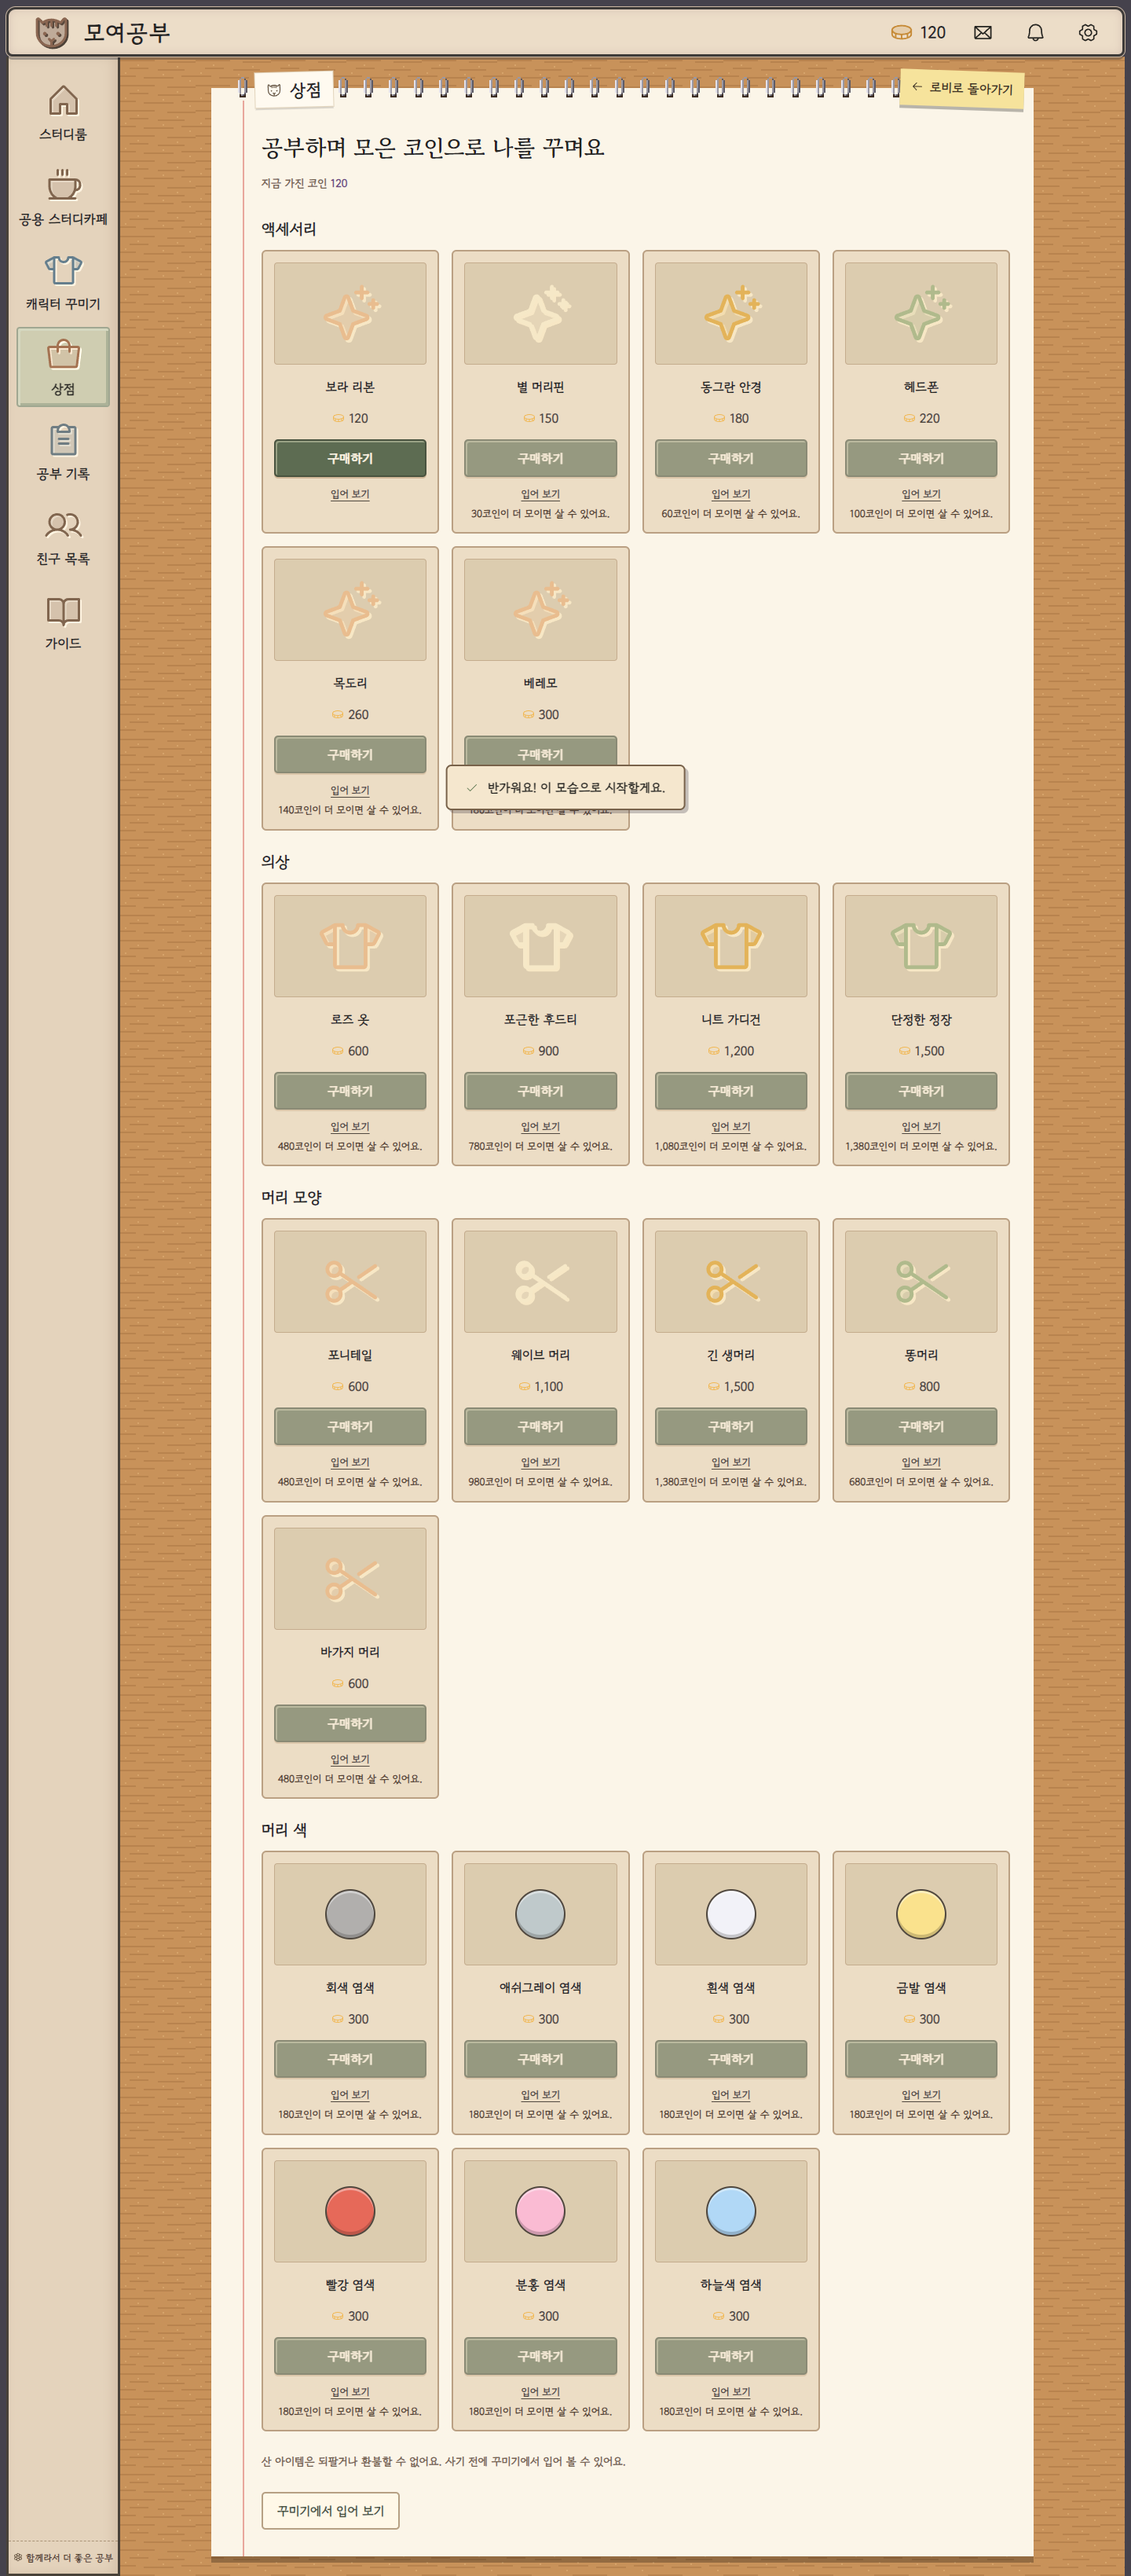
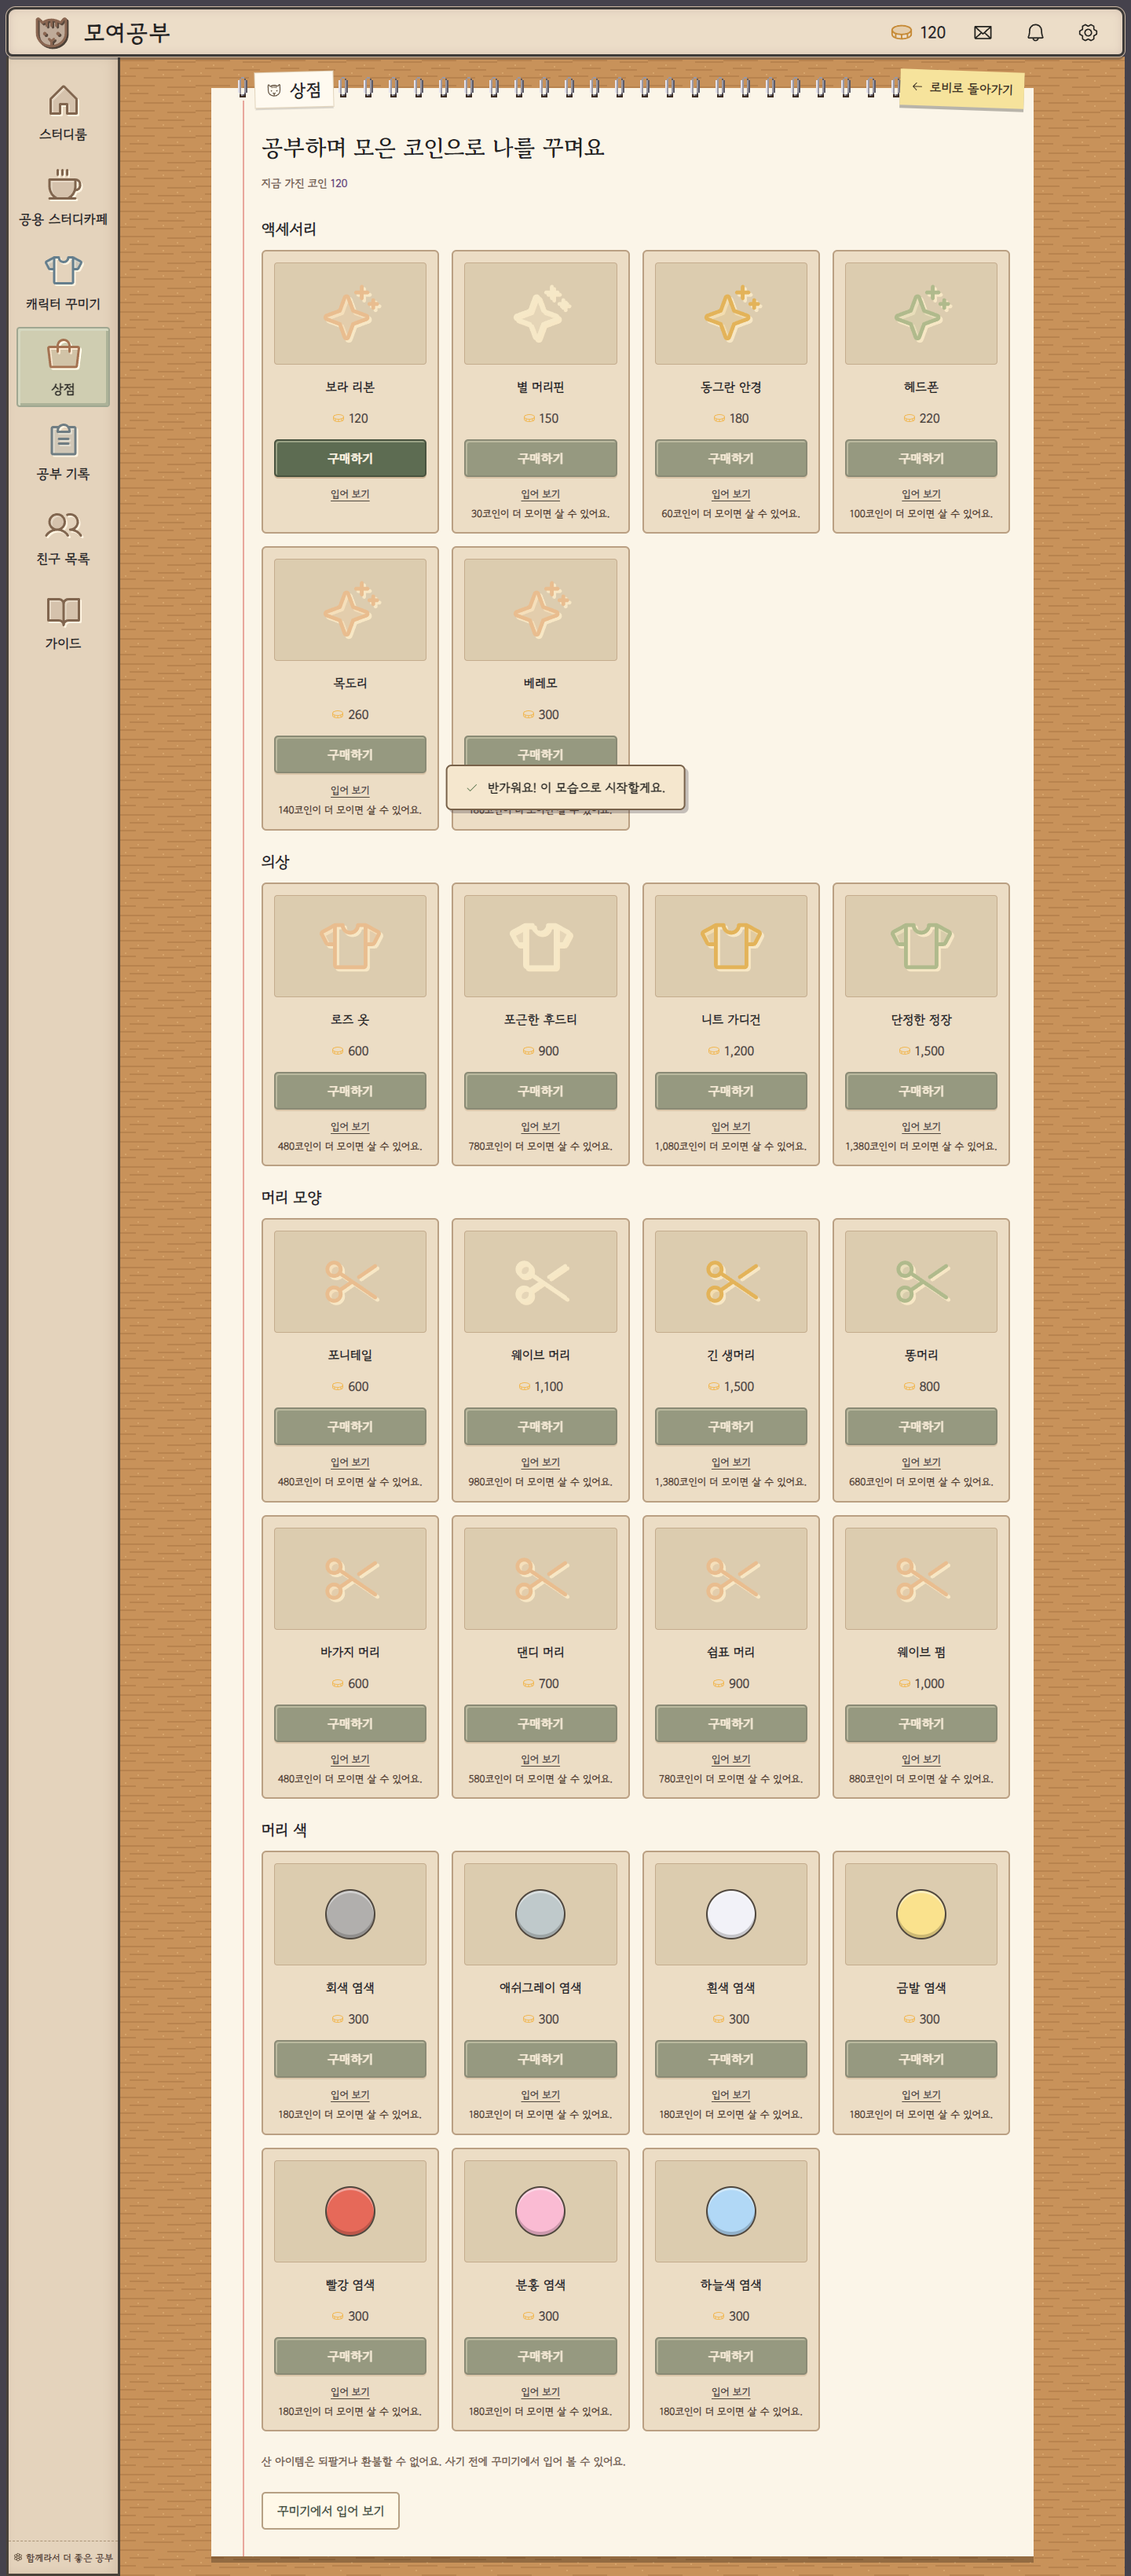
feat: three male hair styles picked from drafts (dandy, comma, perm)
댄디 머리 (700), 쉼표 머리 (900) and 웨이브 펌 (1000), each from a
male-eyed base front draft the user picked plus pixen side and back
edits (8 generations incl. one server retry), dyed into all ten colors.
New migration 20261031120000_male_hair_styles.sql adds the shop rows
(the earlier two are already applied).

Story: story-009-pixel-art

Claude-Session: https://claude.ai/code/session_01HWhC6cf8F1yVMHeXCiKLYb

Changed region(s): [[0.375, 0.5912, 0.9062, 0.7157]]

diff --git a/src/config/shop.ts b/src/config/shop.ts
@@ -64,6 +64,9 @@ export const ITEM_ASSETS: Readonly<Record<string, ItemAsset>> = {
   "hair-long": hairStyle("long"),
   "hair-bun": hairStyle("bun"),
   "hair-bowl": hairStyle("bowl"),
+  "hair-dandy": hairStyle("dandy"),
+  "hair-comma": hairStyle("comma"),
+  "hair-perm": hairStyle("perm"),
   "hair-wave": hairStyle("wave"),
   // 머리 색 (art-src/characters/src/recolor/hair-color/<색>.json, 라벤더는 원재료 색 그대로).
   "hair-color-black": hairColor("black", "#3a3848"),

diff --git a/design/game-brief.md b/design/game-brief.md
@@ -94,7 +94,7 @@ UI 문구에는 가운뎃점을 쓰지 않는다.
 - 책상 꾸밈은 사람을 따라다니는 "내 책상 세트"다 (슬롯 4개). 어느 회사 방 어느 자리에 앉든 내 세트가 펼쳐지고, 빈 자리는 기본 책상이다. 내 방 책상에도 같은 세트가 놓인다 (2026-10-31 결정).
 - 로비(집, 내 방)에도 꾸미기 슬롯을 둔다: 커튼, 벽 액자, 벽 선반, 침대 이불, 러그, 화분, 그리고 책상 (2026-10-31 결정). 슬롯 위치와 그림 요구사항은 `design/quick-specs/room-decor-slots.md`.
 
-- 첫 출시 상점: 캐릭터 아이템만 (액세서리 6, 의상 4, 머리 모양 5, 머리 색 7). 머리 모양과 머리 색은 따로 고르고, 산 색은 모든 머리 모양에 쓴다 (2026-10-31 결정). 책상 소품과 공용 가구는 방 꾸미기 슬롯과 함께 올린다.
+- 첫 출시 상점: 캐릭터 아이템만 (액세서리 6, 의상 4, 머리 모양 8, 머리 색 7). 머리 모양과 머리 색은 따로 고르고, 산 색은 모든 머리 모양에 쓴다 (2026-10-31 결정). 책상 소품과 공용 가구는 방 꾸미기 슬롯과 함께 올린다.
 - 몸은 하나이고 처음 꾸미기에서 남녀를 고른다. 남녀는 눈매(남자는 속눈썹 없음)와 기본 머리 모양, 기본 옷만 바꾸고, 아이템은 누구나 쓴다 (2026-10-31 결정).
 - 가입 시 기본 몸, 눈 색 7종 (보라, 검정, 갈색, 호박색, 초록, 파랑, 회색), 머리 모양 2종 (단발, 짧은 머리), 머리 색 3종 (검정, 밤색, 라벤더), 의상 3종 (교복 치마, 교복 바지, 세이지 옷) 무료. 처음 모습은 여자는 단발과 교복 치마, 남자는 짧은 머리와 교복 바지, 둘 다 검은 머리와 검은 눈, 환영 선물 120코인 (우편). 입어 보기 가능, 환불과 되팔기 없음.
 

diff --git a/production/epics/moyeogongbu/story-009-pixel-art.md b/production/epics/moyeogongbu/story-009-pixel-art.md
@@ -74,7 +74,7 @@
   - 남녀: 몸 하나, `character_looks.gender`가 눈매(`face-<색>-m`은 속눈썹 없는 남자 눈)와 처음 기본 모습을 정한다
 - 상점 액세서리 6종: `acc-ribbon`, `acc-hairpin`, `acc-glasses`, `acc-headphones`, `acc-scarf`, `acc-beret`
 - 상점 의상 4종: `outfit-rose`, `outfit-hoodie`, `outfit-cardigan`, `outfit-suit`
-- 상점 머리 모양 5종: `hair-ponytail`, `hair-wave` (N1의 긴 웨이브 머리), `hair-long`, `hair-bun` (똥머리), `hair-bowl` (바가지 머리)
+- 상점 머리 모양 8종: `hair-ponytail`, `hair-wave` (N1의 긴 웨이브 머리), `hair-long`, `hair-bun` (똥머리), `hair-bowl` (바가지 머리), 남자 머리 `hair-dandy` (댄디), `hair-comma` (쉼표), `hair-perm` (웨이브 펌)
 - 머리 모양은 기본 몸 세 방향(south, west, north)을 PixelLab edit_image_pixen으로 한 장씩 고쳐 만든다 (모양당 3회). 웨이브만 create_character_state(10회)
 - 상점 머리 색 7종 (2026-10-31 추가, 300코인, 모든 머리 모양에 쓴다): `hair-color-gray`, `hair-color-ashgray`, `hair-color-white`, `hair-color-blonde`, `hair-color-red`, `hair-color-pink`, `hair-color-skyblue`
 - 머리 시트는 모양마다 10색: `hair-<모양>-<색>-front.png`, `-back.png` (모양은 라벤더로 생성하고 색은 색 띠 바꾸기)
